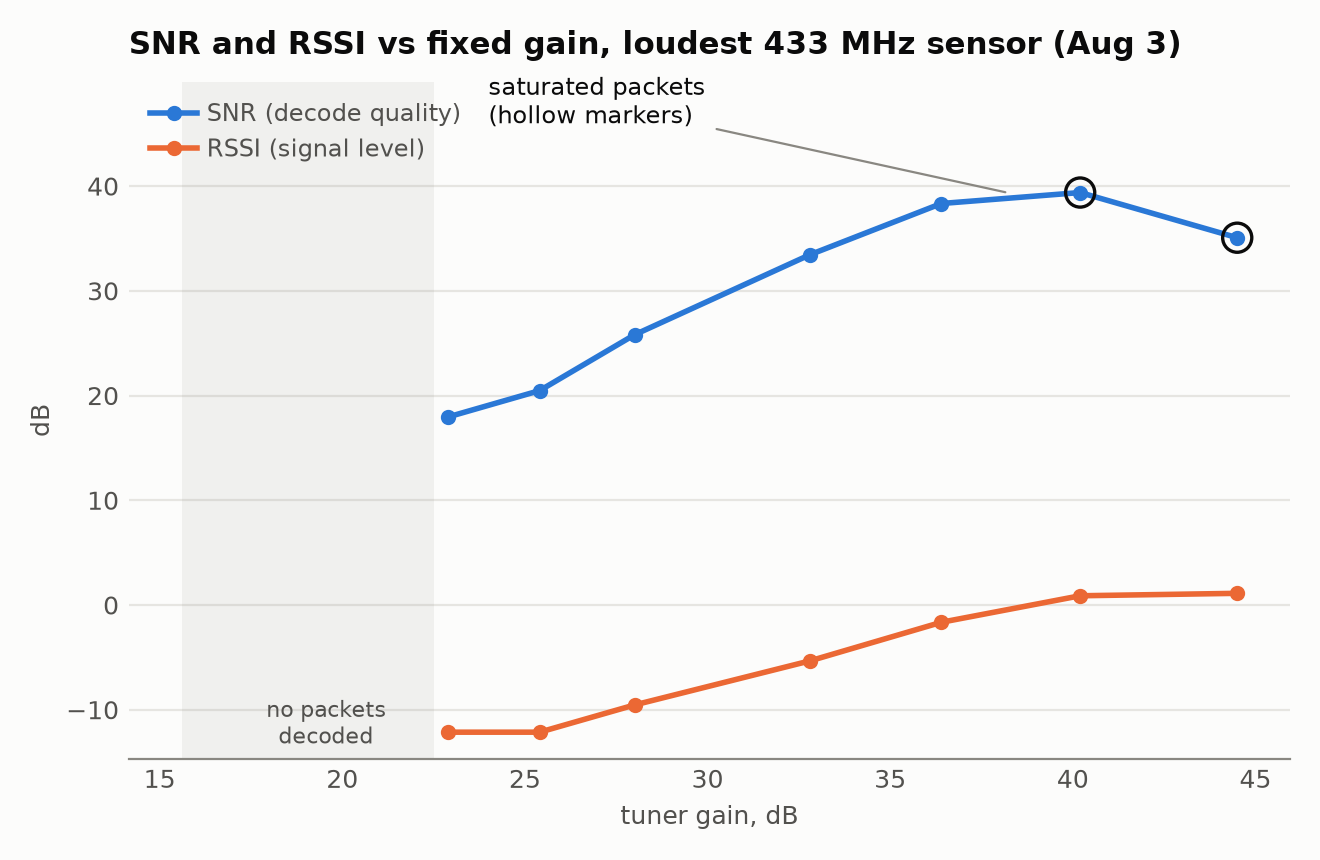
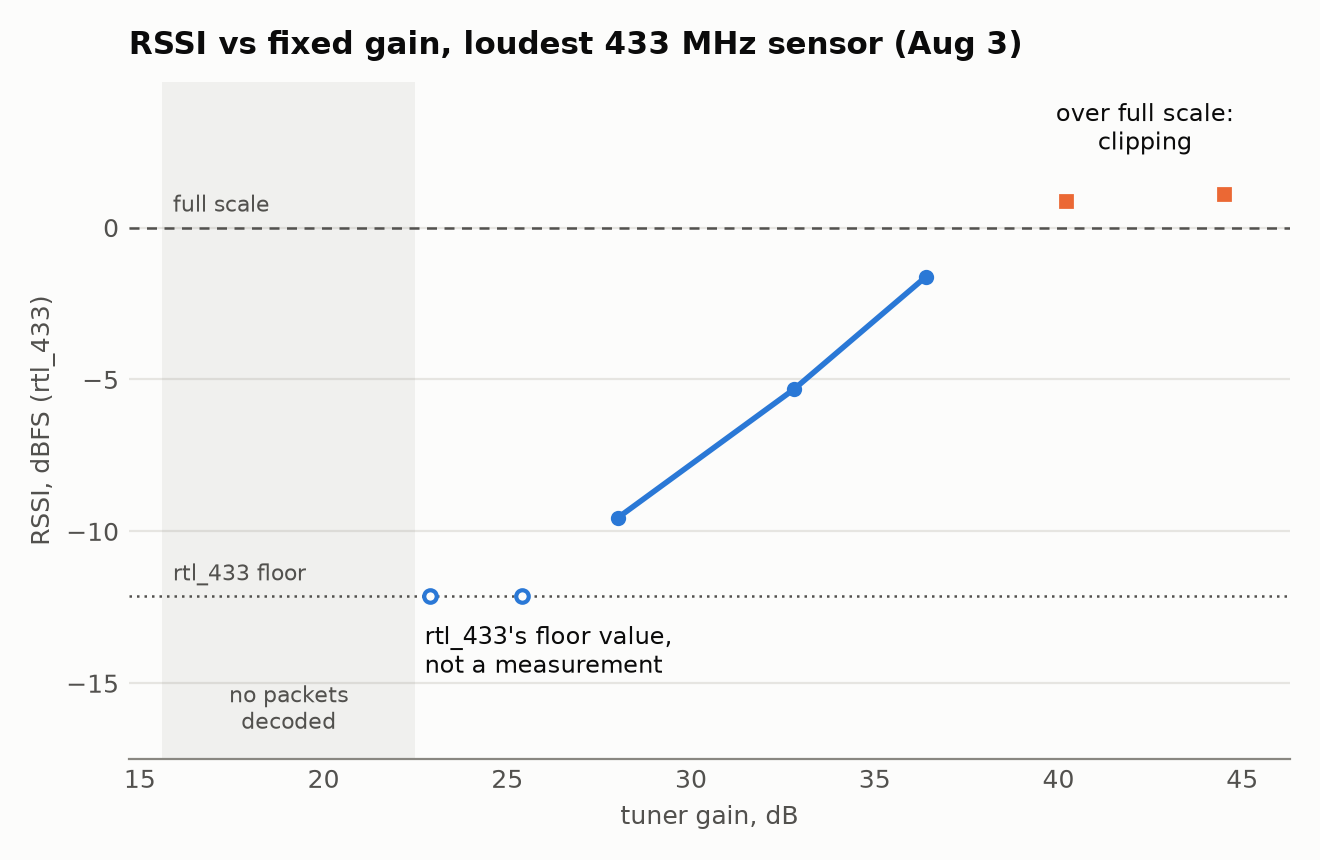
Apply the RF audit to the four aperture posts
The 36.4 dB "hears only one sensor" result in the 433 MHz post was rtl_433's
default detection level, not receiver sensitivity: a 600 s recording decoded
with -Y autolevel also finds the second sensor, and a digital turn-up/turn-down
sweep puts the default line near -14 dBFS and autolevel's near -29.6 dBFS.
New "update, Oct 4" section; the gain chart now plots RSSI only and marks
rtl_433's floor value and the clipped points; the census and the crystal
claims are qualified (datasheet tolerances allow -0.3 to -1.2 ppm/C at 15 C).

Other posts: the 902-928 MHz decode tests say less than they read (rtl_433
demodulates the whole window and ignores weak pulses), the FM and AM sections
now cite the V4's notch filters, HF upconverter and VHF/UHF input split, and
the ADS-B update links the flat noise floor to the 49.6 dB result. Series
thread sentence and "How this was built" footers on all four.

Posts stay draft: true. Not pushed (the branch holds unpushed commits from
other sessions).

diff --git a/content/posts/aperture-433mhz-weather-sensors/index.md b/content/posts/aperture-433mhz-weather-sensors/index.md
@@ -3,7 +3,7 @@ title: "aperture: three 433 MHz weather sensors, and a clock that tracks tempera
 date: 2026-08-22
 draft: true
 tags: ["rf", "sdr", "hardware", "home-lab", "python", "hardware-in-the-loop"]
-description: "Starting with a $25 RTL-SDR: fixing an antenna-length calculation, sweeping the tuner gain, walking the 433 MHz band for eight hours, and finding that a weather sensor's transmit clock drifts with its own temperature reading."
+description: "Starting with a $25 RTL-SDR: fixing an antenna-length calculation, sweeping the tuner gain, walking the 433 MHz band for eight hours, and finding that a weather sensor's transmit clock drifts with its own temperature reading. Updated in October with the decoder setting that hid the weaker sensors."
 ---
 
 The [Vornado fan remote project](/posts/vornado-eos-9-rf-remote-reverse-engineering/)
@@ -113,18 +113,21 @@ Those gains are steps in the tuner's own gain table
 ([librtlsdr source](https://github.com/osmocom/rtl-sdr/blob/0204c9cfb1c5ff7bd64f466ce5b8fe53b40a636a/src/librtlsdr.c#L966-L969)).
 The loudest sensor was an Oregon-THGR810 (id 106):
 
-![RSSI and SNR vs tuner gain for the strongest 433 MHz sensor: SNR peaks at a gain of 40.2 dB then falls, even though RSSI keeps climbing](figs/gainsweep.png)
+![RSSI vs tuner gain for the strongest 433 MHz sensor: rtl_433's floor value at 22.9 and 25.4 dB, a rise of about 1 dB per dB up to 36.4 dB, then over full scale at 40.2 and 44.5 dB](figs/gainsweep.png)
 
-Nothing decoded at 16.6 or 19.7 dB. From there SNR (a measure of how cleanly a
-packet came through, separate from how loud it was) climbs to a peak at a gain
-of 40.2 dB and then falls, even though the raw signal strength keeps climbing.
-As I read it, that's the receiver clipping, roughly what an overdriven
-amplifier does: louder, but distorted. The dongle's ADC is only 8 bits
+Nothing decoded at 16.6 or 19.7 dB. RSSI (signal level) is in dBFS: decibels
+relative to full scale, the loudest signal the dongle can record. At 22.9 and
+25.4 dB the RSSI read exactly -12.14 both times, which I later found is
+rtl_433's floor value rather than a measurement (the update at the end
+explains). From 28.0 to 36.4 dB it rose about 1 dB per dB of gain. At 40.2 and
+44.5 dB it went over full scale. As I read it, that's the receiver clipping,
+roughly what an overdriven amplifier does: louder, but distorted. The dongle's
+ADC is only 8 bits
 ([datasheet](https://www.rtl-sdr.com/wp-content/uploads/2024/12/RTLSDR_V4_Datasheet_V_1_0.pdf)),
 so as I understand it there isn't much room between too quiet and too loud.
-rtl_433 reports `snr = rssi - noise` while its level estimate stays at or
-below full scale; once the estimate goes over full scale, RSSI turns positive
-(it did at 40.2 and 44.5 dB) and the identity stops holding
+rtl_433 reports `snr = rssi - noise` (signal-to-noise ratio) while its level
+estimate stays at or below full scale; once the estimate goes over full scale,
+RSSI turns positive and the identity stops holding
 ([`calc_rssi_snr`](https://github.com/merbanan/rtl_433/blob/master/src/r_flow.c)).
 The packets still decode, but the RSSI can't be trusted. That `snr == rssi -
 noise` test is what my capture script uses as a `saturated` flag. The highest
@@ -138,8 +141,11 @@ overnight rtl_433 run at 36.4 dB (Aug 3, 22:55 to Aug 4, 08:10 PDT, run C1)
 heard only that one too, 1,073 packets. Three seconds after the overnight
 script's second phase started at 40.2 dB (08:11, run C1b), the second Oregon
 sensor (id 148) appeared, and the 8-hour census below, at 40.2 dB, heard all
-three. (An earlier decode pass of about 40 minutes with rtl_433's defaults had
-also found all three.) Runs G2, C1 and C1b all used the 5.5 in elements.
+three. (An earlier decode pass of about 40 minutes with rtl_433's defaults,
+which means automatic gain, had also found all three. The gain it picked wasn't
+recorded.) Runs G2, C1 and C1b all used the 5.5 in elements. The
+cause looks like a decoder default, not the radio; the update at the end has
+the test.
 
 {{< details summary="Commands and settings (runs G2, C1, C1b)" >}}
 
@@ -161,9 +167,10 @@ PDT. The run table at the end has the exact times.
 Clipping ruins the RSSI measurement without stopping the decode, so for the
 census I ran at 40.2 dB - deliberately saturating the loudest sensor - and the
 `saturated` column quarantines its bad readings instead of costing packets from
-the weaker ones.
+the weaker ones. The update at the end has a likely better fix: a lower
+detection level.
 
-## the 433 MHz band: three sensors, nothing else
+## the 433 MHz band: three sensors above the decoder's line
 
 For the census (Aug 4, 08:27 to 16:27 PDT, run C2, 5.5 in elements, 40.2 dB) I
 stepped `rtl_433` through seven 250 kHz slices covering 433.05-434.80 MHz, 90
@@ -195,8 +202,9 @@ from 08:27:56, a hop from the 433.925 slice to 434.175 was due at 14:20:26, and
 the packet arrived at 14:20:27, right on that sensor's usual 31-second beat.
 Every other packet in the census landed while the hopper sat on 433.925. So it
 looks like the sensor was caught mid-hop and stamped with the new slice's
-frequency, not a fourth device, and the census confirmed the count instead of
-finding anything new.
+frequency, not a fourth device. The census confirmed the count instead of
+finding anything new, but it couldn't see a signal whose peak was weaker than
+about -14 dBFS (the update at the end explains).
 
 ## a sensor's transmit clock tracks its temperature
 
@@ -214,22 +222,27 @@ and to 0.006 ppm from 4 hours. The two Oregon sensors came out about 13 to 15
 ppm apart in three datasets (15 ppm in the 22-minute gain sweep, 12.9 ppm in
 the census, 14.3 ppm in another run), which is plenty of separation to key on
 at similar temperatures. Across seasons I'd expect to need a tolerance band, or
-a correction using each sensor's reported temperature.
+a correction using each sensor's reported temperature. One
+[datasheet](http://www.raltron.com/webproducts/specs/CRYSTAL/RSM200S-32.768-6-TR_RevC.pdf)
+for a 32.768 kHz tuning-fork crystal allows a frequency tolerance of ±20 ppm at
+25 °C, a likely reason two sensors sit 13 to 15 ppm apart, and a reason two
+could land close together.
 
 The period also drifts with the temperature the sensor reports. Fitting every
 packet of the overnight run (run C1, Aug 3-4, 14.3 to 16.7 °C) gives
--0.640 ± 0.006 ppm per °C: as it warms, the period gets about 0.64 ppm shorter
-per degree. At that slope, a temperature difference of roughly 20 °C between
-two sensors could erase a 13 to 15 ppm separation. One
-[datasheet](http://www.raltron.com/webproducts/specs/CRYSTAL/RSM200S-32.768-6-TR_RevC.pdf)
-for a 32.768 kHz tuning-fork crystal gives a parabolic curve with a turnover
-near 25 °C and a curvature of about -0.034 ppm/°C², which works out to about
--0.67 ppm/°C at 15 °C. So the fit is within about 5% of that nominal curve. The
-same datasheet allows the turnover and curvature to vary from part to part, so
-I'd say it's consistent with a tuning-fork crystal, not that it matches this
-particular one. (The timestamps come from the Mac's clock, and I don't know
-whether it was NTP-synced, so the absolute ppm values are relative to that
-clock; the difference between the two sensors doesn't depend on it.)
+-0.640 ± 0.006 ppm per °C (the ± is only the fit's statistical error over a
+2.4 °C range): as it warms, the period gets about 0.64 ppm shorter per degree.
+At that slope, a temperature difference of roughly 20 °C between two sensors
+could erase a 13 to 15 ppm separation. The same datasheet gives a parabolic
+curve with a turnover near 25 °C and a curvature of about -0.034 ppm/°C², which
+works out to about -0.67 ppm/°C at 15 °C. The fit is within about 5% of that
+nominal curve, but that's partly luck: the datasheet allows part-to-part
+variation, so a crystal within spec could have a slope anywhere from about -0.3
+to -1.2 ppm/°C at 15 °C. I'd say the fit is consistent with a tuning-fork
+crystal, not that it matches this particular one. (The timestamps come from the
+Mac's clock, and I don't know whether it was NTP-synced, so the absolute ppm
+values are relative to that clock; the difference between the two sensors
+doesn't depend on it.)
 
 Every quartz crystal's frequency changes a little with temperature;
 [Wikipedia](https://en.wikipedia.org/wiki/Quartz_clock) calls temperature the
@@ -247,16 +260,76 @@ r = -0.86), and the dashed line is the nominal tuning-fork curve. The -0.640
 figure above comes from a fit to every packet instead, which doesn't depend on
 where the windows are cut.
 
+## update, Oct 4: the decoder was the limit, not the radio
+
+Almost every RSSI from a weaker sensor in my August logs is exactly -12.14 dBFS,
+including sensor 148 at 40.2 dB. That's a floor, not a measurement. By default,
+rtl_433 holds its estimate of a signal's high level at no less than -12.14 dBFS
+([source](https://github.com/merbanan/rtl_433/blob/25.12/src/pulse_detect.c#L64))
+and sets its detection threshold halfway between its noise estimate and that
+level
+([source](https://github.com/merbanan/rtl_433/blob/25.12/src/pulse_detect.c#L221)).
+That puts the decoder's line somewhere around 15 dB below full scale: weaker
+pulses are ignored, however clean they are. I measured it below.
+
+I had Claude Code record ten minutes of raw radio samples (IQ) at 36.4 dB, run
+T1, with the antenna not re-checked since September, and decode the file twice
+with rtl_433 25.12. With the default detection level it found only sensor 106;
+with a lower one (`-Y autolevel`) it also found 148 (18 packets). Measured
+straight from the samples (`detect_level_ab.py` in the aperture repo), 106 peaks
+near -6.1 dBFS, within 0.4 dB of rtl_433's reading, and 148 at -22.4 dBFS, 15.4
+dB above the noise: easy to decode, just under the default line. LaCrosse 174
+didn't decode in that file with any setting, and I don't know why.
+
+To find the line, I had a script turn that recording up and down digitally and
+decode it again at each step (`detect_level_sweep.py`). The default detector
+started hearing 148 once it was turned up about 9 dB, to a peak near -14 dBFS;
+with `-Y autolevel` it kept hearing it until it was turned down about 7 dB, to
+about -29.5 dBFS and 8 dB over the noise. So the lower level is worth about 15
+dB.
+
+No August IQ was saved, so the rest is inference. At 36.4 dB the loud sensor
+read about -1.6 dBFS in August (5.5 in elements) and -6.1 now (about 9 in), 4.5
+dB weaker. Shift 148 by the same amount and it sits about 4 dB under the default
+line at 36.4 dB and right at it at 40.2 dB, which fits what I saw in August. So
+40.2 dB likely worked by pushing the weaker sensors over the decoder's line
+while clipping the loud one, and staying at 36.4 dB with `-Y autolevel` would
+likely have heard them without clipping (I only tested 148). It would also fit
+the early 40-minute pass, if its automatic gain was running high; my notes say
+it was saturating the front end. The census couldn't see under that line and
+hasn't been rerun.
+
+{{< details summary="Commands (run T1)" >}}
+
+Capture, 600 s at 250 kS/s:
+
+```
+rtl_sdr -f 433920000 -s 250000 -g 36.4 -n 150000000 t1.cu8
+```
+
+The same file decoded with rtl_433's defaults, then with `-Y autolevel`:
+
+```
+rtl_433 -r cu8:t1.cu8 -s 250k -f 433.92M -M level -M time:rel -F json
+rtl_433 -r cu8:t1.cu8 -s 250k -f 433.92M -M level -M time:rel -F json -Y autolevel
+```
+
+`-Y minlevel=-30` in place of `-Y autolevel` gave the same result. The turn-up
+and turn-down test is `python3 detect_level_sweep.py t1.cu8 --id 148 --peak-dbfs -22.4`.
+
+{{< /details >}}
+
 {{< details summary="Every run mentioned in this post (times in PDT and UTC)" >}}
 
 All times are 2026. PDT is UTC-7, so after 17:00 PDT the UTC date is the next
 day. The IDs are only for cross-reference with the text. Antenna is the exposed
 length per element (the change from a V shape to vertical is in the setup
-paragraph at the top). Times come from log files and from file creation and
-modification times. G2's exact command line was not saved. The earlier decode
-pass of about 40 minutes and the "another run" that gave 14.3 ppm are mentioned
-in the text without run IDs and are not in this table. Not recorded at all: the
-antenna's placement, height and cable.
+paragraph at the top). T1's antenna wasn't re-checked: it was last reported as about 9 in per
+element and vertical in September, and no bias tee flag was passed. Times come
+from log files and from file creation and modification times. G2's exact command line was not saved. The
+earlier decode pass of about 40 minutes and the "another run" that gave 14.3 ppm
+are mentioned in the text without run IDs and are not in this table. Not
+recorded at all: the antenna's placement, height and cable.
 
 | ID | run | PDT | UTC | antenna |
 |---|---|---|---|---|
@@ -265,12 +338,13 @@ antenna's placement, height and cable.
 | C1 | overnight 433.92 MHz at 36.4 dB | Aug 3 22:55:39 - Aug 4 08:10:00 | Aug 4 05:55:39 - 15:10:00 | 5.5 in |
 | C1b | same run, switched to 40.2 dB | Aug 4 08:11:33 - 08:23:17 | Aug 4 15:11:33 - 15:23:17 | 5.5 in |
 | C2 | 433 MHz census, 7 slices, 40.2 dB | Aug 4 08:27:56 - 16:27:57 | Aug 4 15:27:56 - 23:27:57 | 5.5 in |
+| T1 | 433.92 MHz raw IQ at 36.4 dB, decoded twice (Oct 4 update) | Oct 4 22:46:43 - 22:56:44 | Oct 5 05:46:43 - 05:56:44 | ~9 in, not re-checked |
 
 {{< /details >}}
 
 ## more from this project
 
-This is one of four posts from the same RTL-SDR project. The other three:
+This is one of four posts from the same RTL-SDR project. One thread runs through all four: more than once, what I was chasing turned out to be my own tools, from the dongle's DC spike to a clipping front end to a decoder's default threshold. The other three:
 
 - [aperture: tracking ships and aircraft over SF Bay with a $25 SDR dongle](/posts/aperture-ships-and-aircraft/) - three AIS runs and two ADS-B runs, with times and links so they can be checked (Aug 6-7 and Sep 25)
 - [aperture: what's on the air from 500 kHz to 1.77 GHz](/posts/aperture-whats-on-the-air/) - a full-spectrum sweep, whether strong FM stations overload the receiver, and an AM station that was an empty channel (Aug 3 to Sep 24)
@@ -278,4 +352,4 @@ This is one of four posts from the same RTL-SDR project. The other three:
 
 ---
 
-*[How this was built](/how-i-work/): Claude Code wrote the capture scripts, the analysis and the figures, and drafted this post from our session logs. I set the antenna lengths, moved the antenna, started every run, and chose what to check against outside sources. Every number here comes from a run in the table, and what wasn't recorded is listed there too.*
+*[How this was built](/how-i-work/): Claude Code wrote the capture scripts, the analysis and the figures, and drafted this post from our session logs. I set the antenna lengths, moved the antenna, directed which runs to do, and chose what to check against outside sources. Tested: every measurement here is from a run on the dongle listed in the table, except where the text says otherwise. Not tested: whether the clock fingerprint survives a battery swap, and a 433 MHz census with the lowered detection level.*

diff --git a/content/posts/aperture-whats-on-the-air/index.md b/content/posts/aperture-whats-on-the-air/index.md
@@ -57,8 +57,7 @@ Across the three, UHF TV broadcast, public-safety/SMR (the
 LTE ([band list](https://en.wikipedia.org/wiki/LTE_frequency_bands)) showed up
 as the main peaks above 300 MHz. In the full sweep, FM broadcast (88-108 MHz,
 [47 CFR 73.201](https://www.law.cornell.edu/cfr/text/47/73.201)) is the
-strongest peak anywhere in the 1.77 GHz span: +50.9 dB over the sweep floor at
-104.5 MHz, 13.7 dB above the next-loudest peak, at 561.3 MHz in the UHF TV
+strongest peak: +50.9 dB over the sweep floor at 104.5 MHz, 13.7 dB above the next-loudest peak, at 561.3 MHz in the UHF TV
 band. The 41-167 MHz test below (later, with the longer elements) found the
 strongest FM stations compressed by about 3.7 dB at 36.4 dB gain, so FM's real
 margin is probably a bit larger than the chart shows. I labeled peaks from their
@@ -81,7 +80,12 @@ The other thing in that sweep: the 41-167 MHz region reads as one continuous
 elevated block, with no gap that drops back to the noise floor. That could be
 dense real occupancy (FM and TV stations, aviation bands), or FM overloading
 the receiver and creating junk that raises the apparent floor across its
-neighbors. I couldn't
+neighbors. The V4's
+[datasheet](https://www.rtl-sdr.com/wp-content/uploads/2024/12/RTLSDR_V4_Datasheet_V_1_0.pdf)
+takes this seriously: it says very strong broadcast FM can lower the
+signal-to-noise ratio of signals on other frequencies. The V4 splits its input
+into HF, VHF and UHF paths and adds switchable notch filters for broadcast AM,
+FM and DAB that, the datasheet says, "only attenuate by a few dB". I couldn't
 tell which from the sweep alone, so I ran a test that can.
 
 ## the 41-167 MHz block at four gains
@@ -131,13 +135,25 @@ exception: those bins fell only 3.7 dB, so the strongest stations are
 compressed by about 3.7 dB at 36.4 dB gain. That's gone by 28 dB, and as far as
 this test can tell it doesn't spread into other bands.
 
+That fits the hardware. The driver switches the V4's notch filters off only
+while tuned to 2.2 MHz and below, 85-112 MHz or 172-242 MHz
+([librtlsdr 2.0.2 source](https://github.com/osmocom/rtl-sdr/blob/v2.0.2/src/tuner_r82xx.c#L1157)),
+so elsewhere FM is a few dB down. The
+[datasheet's](https://www.rtl-sdr.com/wp-content/uploads/2024/12/RTLSDR_V4_Datasheet_V_1_0.pdf)
+own two-tone test needs about -7 dBm at 95 MHz (read off its graph) before a VHF
+signal loses 3 dB.
+
 ![Change in level for every bin from 41 to 167 MHz when the gain drops from 36.4 to 28.0 dB: the non-FM bins fall by a median 7.4 dB, while the FM band falls only about 3.7 dB](figs/vhf-gain-ab.png)
 
 So, as far as this test can tell, the elevated block is energy arriving through
 the antenna, not something FM creates inside the receiver. A test like this
 can't separate outside energy from the receiver's own noise, but a receiver
 limited by its own noise would show the same raised level in the quiet
-reference band, and it didn't. One thing I got wrong on the way: I'd planned to
+reference band, and it didn't. (Per the
+[driver source](https://github.com/osmocom/rtl-sdr/blob/v2.0.2/src/tuner_r82xx.c#L1166),
+the quiet reference band goes through the V4's UHF input and the 41-167 MHz
+block through its VHF input, so the comparison crosses two front ends;
+suggestive, not airtight.) One thing I got wrong on the way: I'd planned to
 express everything as "excess over the noise floor", but the floor `rtl_power`
 reports barely moves with gain (about 1.4 dB across a nearly 20 dB range,
 presumably because the ADC's own quantization noise dominates it), so that
@@ -181,6 +197,12 @@ noise floor, the 18 carriers that stay drop about 3.4 dB, while these three drop
 6 to 20 dB, all the way down to the floor. Falling two to six times as far as
 the real signals is what a nonlinear product does (see the third-order note in
 the 41-167 MHz section above).
+
+The V4's
+[datasheet](https://www.rtl-sdr.com/wp-content/uploads/2024/12/RTLSDR_V4_Datasheet_V_1_0.pdf)
+warns about this: HF comes in through a built-in upconverter (a circuit that
+shifts it up in frequency), and it says
+"very strong reception may still require front end attenuation/filtering".
 
 {{< details summary="Commands and settings (runs AM1, AM2)" >}}
 
@@ -315,7 +337,7 @@ antenna's placement, height and cable.
 
 ## more from this project
 
-This is one of four posts from the same RTL-SDR project. The other three:
+This is one of four posts from the same RTL-SDR project. One thread runs through all four: more than once, what I was chasing turned out to be my own tools, from the dongle's DC spike to a clipping front end to a decoder's default threshold. The other three:
 
 - [aperture: three 433 MHz weather sensors, and a clock that tracks temperature](/posts/aperture-433mhz-weather-sensors/) - an antenna-length calculation, a gain sweep, an eight-hour 433 MHz census, and a sensor clock that tracks temperature (Aug 3-4)
 - [aperture: tracking ships and aircraft over SF Bay with a $25 SDR dongle](/posts/aperture-ships-and-aircraft/) - three AIS runs and two ADS-B runs, with times and links so they can be checked (Aug 6-7 and Sep 25)
@@ -323,4 +345,4 @@ This is one of four posts from the same RTL-SDR project. The other three:
 
 ---
 
-*[How this was built](/how-i-work/): Claude Code wrote the capture scripts, the analysis and the figures, and drafted this post from our session logs. I set the antenna lengths, moved the antenna, started every run, and chose what to check against outside sources. Every number here comes from a run in the table, and what wasn't recorded is listed there too.*
+*[How this was built](/how-i-work/): Claude Code wrote the capture and analysis scripts, the AM demodulator and the figures, and drafted this post from our session logs. I set the antenna lengths, moved the antenna, directed which runs to do, listened to the AM clips, and chose what to check against outside sources. Tested: every measurement here is from a run on the dongle listed in the table. Not tested: the AM survey at midday, and the cause of the one 1.04% clipping reading.*

diff --git a/content/posts/aperture-mystery-carrier-dc-spike/index.md b/content/posts/aperture-mystery-carrier-dc-spike/index.md
@@ -245,6 +245,26 @@ The 902-928 MHz bursts are still unidentified. PG&E's band and burst length are
 consistent with them being meters, but that's all I have, and I'm not going to
 try to decode them (see the PG&E section).
 
+## update, Oct 4: the decode tests say less than I thought
+
+I learned that rtl_433 doesn't filter down to a single channel: it looks for
+pulses across the whole window
+([rtl_433.c](https://github.com/merbanan/rtl_433/blob/25.12/src/rtl_433.c#L474-L532)).
+My decode runs (D1-D3, M8, M9, M11) used windows 1.0 to 2.4 MHz wide, so, by
+width alone, a signal in one narrow channel competed with several times more
+noise than in a 250 kHz capture, about ten times at 2.4 MHz.
+
+By default it also ignores pulses weaker than about -14 dBFS (decibels below
+full scale), however clean they are
+([pulse_detect.c, line 64](https://github.com/merbanan/rtl_433/blob/25.12/src/pulse_detect.c#L64)
+and [line 221](https://github.com/merbanan/rtl_433/blob/25.12/src/pulse_detect.c#L221)).
+I measured that line on the dongle in
+[the 433 MHz post's update](/posts/aperture-433mhz-weather-sensors/).
+
+So zero decodes means no meter rtl_433 supports was loud enough, often enough,
+in those windows, not that none is there. I also don't know whether PG&E's
+meters use any protocol rtl_433 has a decoder for.
+
 {{< details summary="Every run mentioned in this post (times in PDT and UTC)" >}}
 
 All times are 2026. PDT is UTC-7, so after 17:00 PDT the UTC date is the next
@@ -275,7 +295,7 @@ end of D3 (start plus 5 minutes). Not recorded at all: the gain for IQ captures
 
 ## more from this project
 
-This is one of four posts from the same RTL-SDR project. The other three:
+This is one of four posts from the same RTL-SDR project. One thread runs through all four: more than once, what I was chasing turned out to be my own tools, from the dongle's DC spike to a clipping front end to a decoder's default threshold. The other three:
 
 - [aperture: three 433 MHz weather sensors, and a clock that tracks temperature](/posts/aperture-433mhz-weather-sensors/) - an antenna-length calculation, a gain sweep, an eight-hour 433 MHz census, and a sensor clock that tracks temperature (Aug 3-4)
 - [aperture: tracking ships and aircraft over SF Bay with a $25 SDR dongle](/posts/aperture-ships-and-aircraft/) - three AIS runs and two ADS-B runs, with times and links so they can be checked (Aug 6-7 and Sep 25)
@@ -283,4 +303,4 @@ This is one of four posts from the same RTL-SDR project. The other three:
 
 ---
 
-*[How this was built](/how-i-work/): Claude Code wrote the capture scripts, the analysis and the figures, and drafted this post from our session logs. I set the antenna lengths, moved the antenna, started every run, and chose what to check against outside sources. Every number here comes from a run in the table, and what wasn't recorded is listed there too.*
+*[How this was built](/how-i-work/): Claude Code wrote the detector, the capture scripts and the figure, and drafted this post from our session logs. I set the antenna lengths, moved the antenna, directed which runs to do, and chose what to check against outside sources. Tested: every measurement here is from a run on the dongle listed in the table. Not tested: what the 902-928 MHz bursts are, since I chose not to decode them.*

diff --git a/content/posts/aperture-ships-and-aircraft/index.md b/content/posts/aperture-ships-and-aircraft/index.md
@@ -456,6 +456,15 @@ Aug 6, from 22:05 PDT; run 2 on Friday morning from 10:34 PDT). I'd guess the
 time of day does more than the antenna to set how many aircraft are overhead,
 but I can't separate the two.
 
+The gain test in [the what's-on-the-air post](/posts/aperture-whats-on-the-air/)
+showed the noise floor in a quiet UHF band (930-958 MHz) moving only
+about 1.4 dB while the gain fell nearly 20 dB. That suggests the floor is set
+after the tuner's gain, probably by the 8-bit analog-to-digital converter. 1090
+MHz takes the same UHF input
+([driver source](https://github.com/osmocom/rtl-sdr/blob/v2.0.2/src/tuner_r82xx.c#L1166)),
+so more gain lifts weak signals above the floor until something clips, which
+may be part of why 49.6 dB beat 40.2 dB in my smoke tests.
+
 ![The ten aircraft with the most position fixes during the 45-minute run on Sep 25, plotted on OpenStreetMap around San Francisco Bay](figs/aircraft-map.png)
 
 The legend counts snapshot points, which repeat a position when no new fix had
@@ -536,7 +545,7 @@ placement, height and cable.
 
 ## more from this project
 
-This is one of four posts from the same RTL-SDR project. The other three:
+This is one of four posts from the same RTL-SDR project. One thread runs through all four: more than once, what I was chasing turned out to be my own tools, from the dongle's DC spike to a clipping front end to a decoder's default threshold. The other three:
 
 - [aperture: three 433 MHz weather sensors, and a clock that tracks temperature](/posts/aperture-433mhz-weather-sensors/) - an antenna-length calculation, a gain sweep, an eight-hour 433 MHz census, and a sensor clock that tracks temperature (Aug 3-4)
 - [aperture: what's on the air from 500 kHz to 1.77 GHz](/posts/aperture-whats-on-the-air/) - a full-spectrum sweep, whether strong FM stations overload the receiver, and an AM station that was an empty channel (Aug 3 to Sep 24)
@@ -544,4 +553,4 @@ This is one of four posts from the same RTL-SDR project. The other three:
 
 ---
 
-*[How this was built](/how-i-work/): Claude Code wrote the capture scripts, the analysis and the figures, and drafted this post from our session logs. I set the antenna lengths, moved the antenna, started every run, and chose what to check against outside sources. Every number here comes from a run in the table, and what wasn't recorded is listed there too.*
+*[How this was built](/how-i-work/): Claude Code wrote the capture scripts, the analysis, the maps and the figures, and drafted this post from our session logs. I set the antenna lengths, moved the antenna, directed which runs to do, and chose what to check against outside sources. Tested: every count here is from a run on the dongle listed in the table, and the vessels and aircraft were checked against public listings. Not tested: where the ships were at the times I heard them (I found no free history to check against), and who the five ships heard only once were.*
